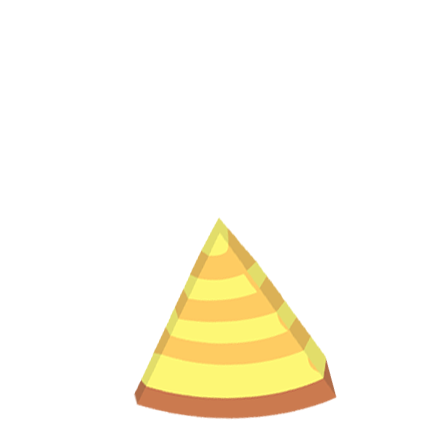
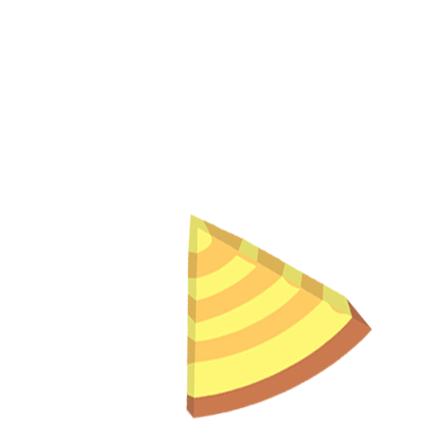
* thêm sprite, fix lại hiệu ứng bảng vỡ

Changed region(s): [[0.2928, 0.4793, 0.8491, 0.9885]]

diff --git a/src/objects/boards/board.js b/src/objects/boards/board.js
@@ -28,7 +28,7 @@ export class Board extends Sprite {
   }
   _initFragments() {
     this.frgLgFrames = [];
-    for (let i = 1; i <= 2; i++) {
+    for (let i = 0; i <= 4; i++) {
       let frgLgframe = Texture.from(`../assets/images/frgLg${i}.png`);
       this.frgLgFrames.push(frgLgframe);
     }
@@ -40,50 +40,47 @@ export class Board extends Sprite {
     this.fragments1.visible = false;
     this.fragments1.zIndex = 100;
 
-    // this.frgMdFrames = [];
-    // for (let i = 1; i <= 2; i++) {
-    //   let frgMdframe = Texture.from(`../assets/images/frgMd${i}.png`);
-    //   this.frgMdFrames.push(frgMdframe);
-    // }
-       // this.fragments2 = new AnimatedSprite(this.frgMdFrames);
-    this.fragments2 =  Sprite.from('../assets/images/frgMd1.png');
+    this.frgMdFrames = [];
+    for (let i = 1; i <= 4; i++) {
+      let frgMdframe = Texture.from(`../assets/images/frgMd${i}.png`);
+      this.frgMdFrames.push(frgMdframe);
+    }
+       this.fragments2 = new AnimatedSprite(this.frgMdFrames);
+    // this.fragments2 =  Sprite.from('../assets/images/frgMd1.png');
     this.fragments2.anchor.set(0.5);
     this.fragments2.scale.set(0.8);
     this.fragments2.visible = false;
     this.fragments2.zIndex = 100;
 
-    // this.frgSmFrames = [];
-    // for (let i = 1; i <= 2; i++) {
-    //   let frgSmframe = Texture.from(`../assets/images/frgSm${i}.png`);
-    //   this.frgSmFrames.push(frgSmframe);
-    // }
-    this.fragments3 =  Sprite.from('../assets/images/frgSm1.png');
-    // this.fragments3 = new AnimatedSprite(this.frgSmFrames);
+    this.frgSmFrames = [];
+    for (let i = 1; i <= 5; i++) {
+      let frgSmframe = Texture.from(`../assets/images/frgSm${i}.png`);
+      this.frgSmFrames.push(frgSmframe);
+    }
+    this.fragments3 = new AnimatedSprite(this.frgSmFrames);
+    // this.fragments3 =  Sprite.from('../assets/images/frgSm1.png');
     this.fragments3.anchor.set(0.5);
     this.fragments3.scale.set(0.8);
     this.fragments3.visible = false;
     this.fragments3.zIndex = 100;
-    this.addFragmentsIntoBoard();
-  }
-  addFragmentsIntoBoard() {
     this.addChild(this.fragments1, this.fragments2, this.fragments3);
   }
   breakUp() {
     // this.texture = null;
     this.fragments1.visible = true;
-    // this.fragments1.play();
-    // this.fragments1.animationSpeed = 0.08;
-    // this.fragments1.loop = false;
+    this.fragments1.play();
+    this.fragments1.animationSpeed = 0.3;
+    this.fragments1.loop = false;
 
     this.fragments2.visible = true;
-    // this.fragments2.play();
-    // this.fragments2.animationSpeed = 0.08;
-    // this.fragments2.loop = false;
+    this.fragments2.play();
+    this.fragments2.animationSpeed = 0.21;
+    this.fragments2.loop = false;
 
     this.fragments3.visible = true;
-    // this.fragments3.play();
-    // this.fragments3.animationSpeed = 0.08;
-    // this.fragments3.loop = false;
+    this.fragments3.play();
+    this.fragments3.animationSpeed = 0.28;  
+    this.fragments3.loop = false;
 
     this.setBroken();
   }
@@ -91,28 +88,28 @@ export class Board extends Sprite {
     this.isBroken = true;
     // set rơi manh 1
     new TWEEN.Tween(this.fragments1)
-      .to({ x: -170, y: -170, rotation: 2 }, 20)
+      .to({ x: -50, y: -10, rotation: -0.02}, 30)
       .onComplete(() => {
         new TWEEN.Tween(this.fragments1)
-          .to({ x: -250, y: 1350, rotation: -0.8 }, 40)
+          .to({ x: -150, y: 1200, rotation: -0.03 }, 50)
           .start(this.currentDt);
       })
       .start(this.currentDt);
     // set rơi manh 2
     new TWEEN.Tween(this.fragments2)
-      .to({ x: 250, y: -300, rotation: 4 }, 20)
+      .to({ x: 150, y: -150, rotation: 0.5 }, 30)
       .onComplete(() => {
         new TWEEN.Tween(this.fragments2)
-          .to({ x: 100, y: 1550, rotation: 3 }, 40)
+          .to({ x: 280, y: 1250, rotation: 1 },55)
           .start(this.currentDt);
       })
       .start(this.currentDt);
     // set rơi manh 3
     new TWEEN.Tween(this.fragments3)
-      .to({ x: 35, y: -350, rotation: 5 }, 15)
+      .to({ x: -200, y: -250, rotation: -0.08 },30)
       .onComplete(() => {
         new TWEEN.Tween(this.fragments3)
-          .to({ x: 120, y: 1350, rotation: 2 }, 50)
+          .to({ x: -300, y: 1350, rotation: -1.5 },60)
           .start(this.currentDt);
       })
       .start(this.currentDt);
@@ -122,14 +119,14 @@ export class Board extends Sprite {
     this.boardFilter = new AdjustmentFilter();
     this.boardSprite.filters = [this.boardFilter];
     new TWEEN.Tween(this.boardSprite)
-      .to({ y: this.boardSprite.y - 6}, 2)
+      .to({ y: this.boardSprite.y - 4}, 2)
       .onUpdate(() => {
         this.boardFilter.gamma = 2;
       })
       .onComplete(() => {
         this.boardFilter.gamma = 1;
         new TWEEN.Tween(this.boardSprite)
-          .to({ y: this.boardSprite.y + 6}, 4)
+          .to({ y: this.boardSprite.y + 4}, 4)
           .start(this.currentDt);
       })
       .start(this.currentDt);

diff --git a/src/objects/scenes/playScene.js b/src/objects/scenes/playScene.js
@@ -180,7 +180,7 @@ export class PlayScene extends Container {
             this.knifeManager.obsKnives.forEach((knife) => {
                 if (Util.SATPolygonPolygon(this._cal4PointKnife(this.knifeManager.knives[0]), Util.find4Vertex(knife))) {
                   console.log("aaaaa");
-                  this.kHitKSound.play();
+                  // this.kHitKSound.play();
                   this.knifeManager.knives[0].setFall();
                   this.state = GameState.Lose;
                   setTimeout(() => {
@@ -197,7 +197,7 @@ export class PlayScene extends Container {
         this.appleManager.apples.forEach((apple) => {
           if (Util.SATPolygonPolygon(this._cal4PointKnife(this.knifeManager.knives[0]), Util.find4Vertex(apple))) {
             console.log("xuyen tao");
-            this.kHitApple.play();
+            // this.kHitApple.play();
             this.appleManager.removeApple(apple);
 
             //tang diem
@@ -212,7 +212,7 @@ export class PlayScene extends Container {
           this.knifeManager.knives[0].beObs();
 
           //tao am thanh
-          this.kHitWSound.play();
+          // this.kHitWSound.play();
 
           //tao vun go khi va cham
           let logParticle = new Emitter(
@@ -245,7 +245,7 @@ export class PlayScene extends Container {
           // phóng hết dao
           if (this.knifeManager.knives.length == 0) {
             // tạo âm thanh
-            this.boardBroken.play();
+            // this.boardBroken.play();
             // Hiện và xử lí các mảnh vỡ bay ra
             this.board.breakUp();
             this.knifeManager.setObsFall();
